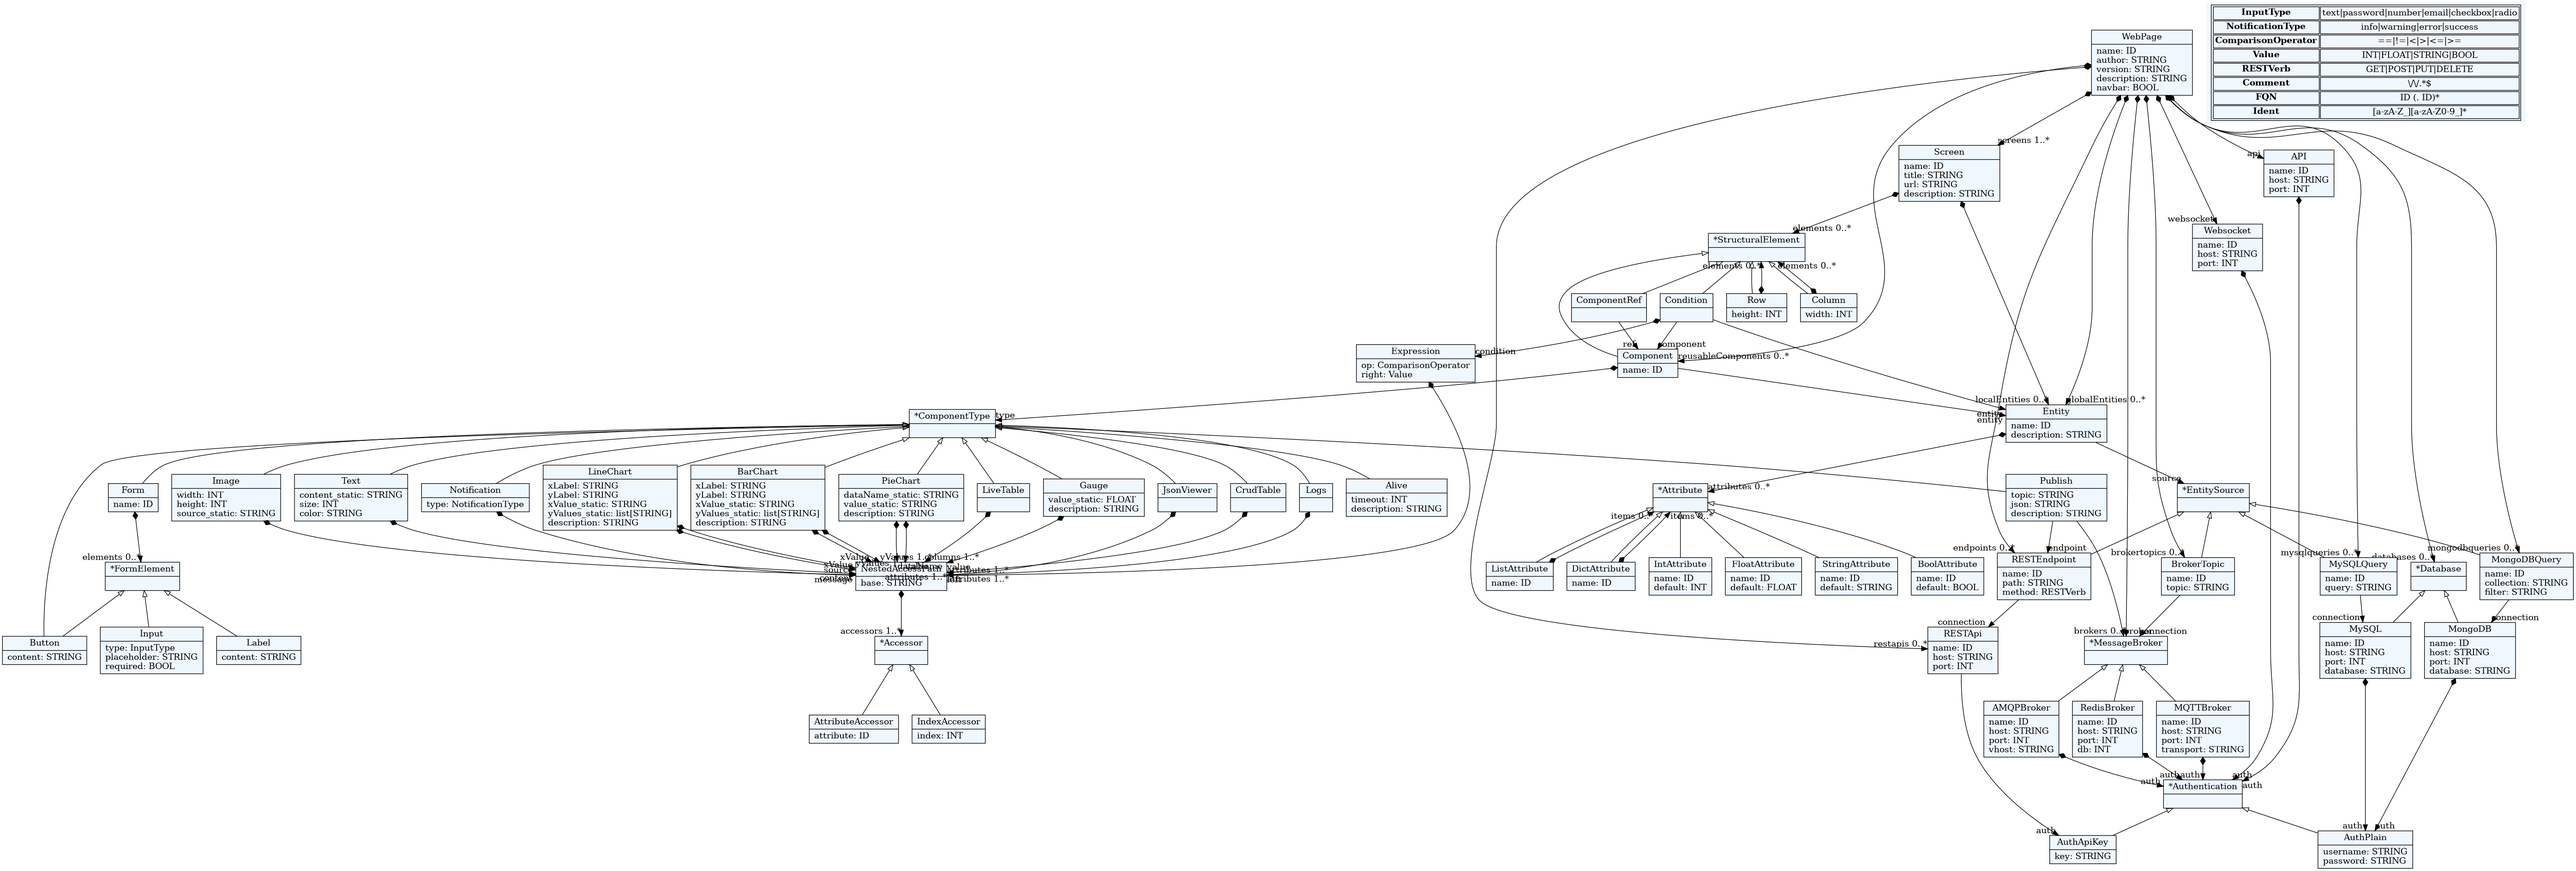
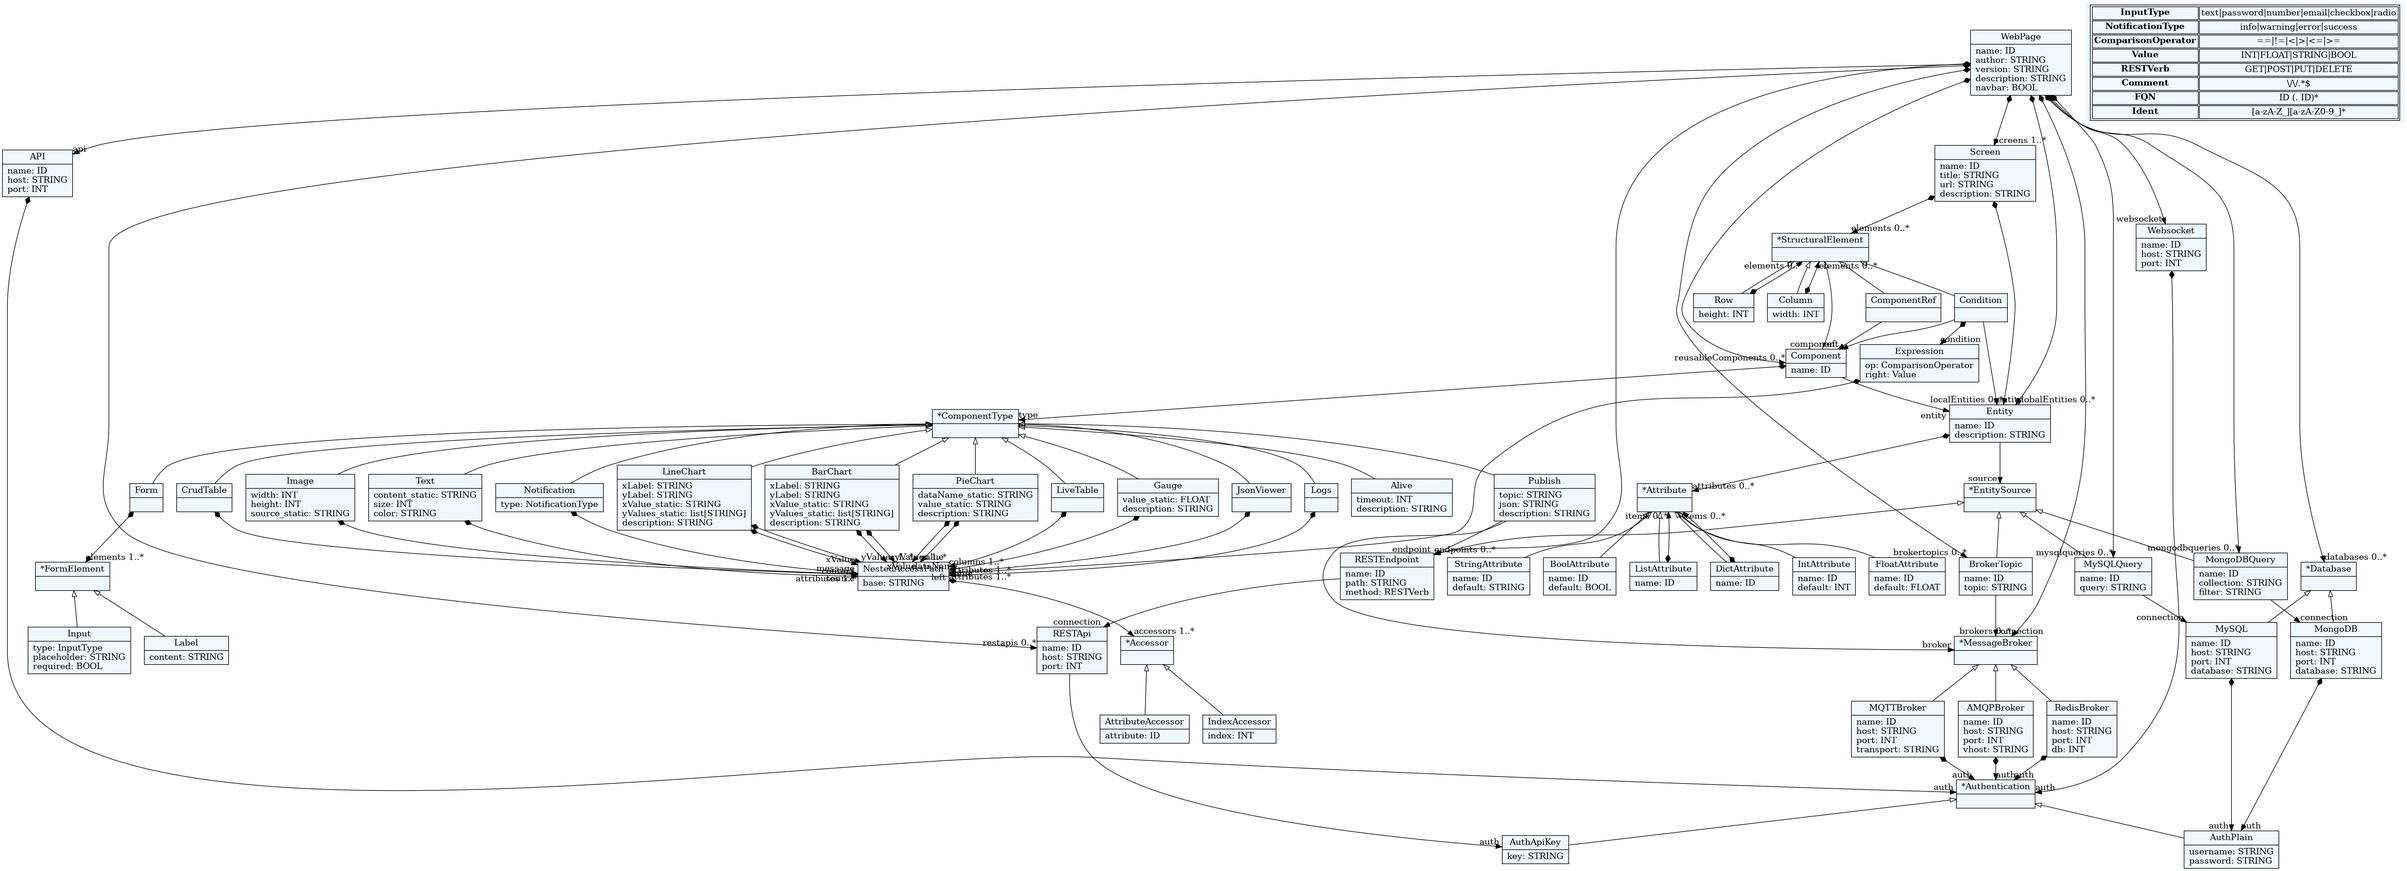
Form not working 100%

diff --git a/web_dsl/base/frontend_base/src/components/CustomForm.jsx b/web_dsl/base/frontend_base/src/components/CustomForm.jsx
@@ -1,0 +1,63 @@
+import React, { useState } from "react";
+import { toast } from "react-toastify";
+import { proxyRestCall } from "../api/proxyRestCall";
+
+const CustomForm = ({ elements, restData }) => {
+    // Track form field values by index
+    const [formData, setFormData] = useState({});
+
+    // Handle input changes
+    const handleChange = (index) => (e) => {
+        const key = `field_${index}`;
+        const value =
+            e.target.type === "checkbox" || e.target.type === "radio"
+                ? e.target.checked
+                : e.target.value;
+
+        setFormData((prev) => ({
+            ...prev,
+            [key]: value
+        }));
+    };
+
+    const handleSubmit = async (e) => {
+        e.preventDefault();
+
+        try {
+            const response = await proxyRestCall(...restData, {
+                body: formData
+            });
+
+            if (!response.ok) {
+                throw new Error(`Server error: ${response.statusText}`);
+            }
+            console.log("Success:", response);
+        } catch (error) {
+            console.error("Submission failed:", error);
+        }
+    };
+
+    return (
+        <form onSubmit={handleSubmit}>
+            {elements.map((el, idx) => {
+                if (el.kind === "label") {
+                    return <label key={idx}>{el.content}</label>;
+                }
+
+                // Otherwise treat as input
+                return (
+                    <input
+                        key={idx}
+                        type={el.type}
+                        placeholder={el.placeholder}
+                        required={el.required}
+                        onChange={handleChange(idx)}
+                    />
+                );
+            })}
+            <button type="submit">Submit</button>
+        </form>
+    );
+};
+
+export default CustomForm;

diff --git a/web_dsl/lib/component.py b/web_dsl/lib/component.py
@@ -260,3 +260,43 @@ class CrudTable(ComponentType):
             self.attributes = [
                 self.format_attribute_path(attribute) for attribute in attributes
             ]
+
+
+class Input(ComponentType):
+    def __init__(
+        self, parent=None, name="Input", type=None, placeholder=None, required=None
+    ):
+        super().__init__(parent, name)
+        self.type = type
+        self.placeholder = placeholder
+        self.required = required
+
+    def to_dict(self):
+        return {
+            "kind": "input",
+            "type": self.type,
+            "placeholder": self.placeholder,
+            "required": "true" if self.required else "false",
+        }
+
+
+class Label(ComponentType):
+    def __init__(self, parent=None, name="Label", content=None):
+        super().__init__(parent, name)
+        self.content = content
+
+    def to_dict(self):
+        return {
+            "kind": "label",
+            "content": self.content,
+        }
+
+
+class Form(ComponentType):
+    def __init__(self, parent=None, name="Form", elements=None):
+        super().__init__(parent, name)
+        if elements is not None:
+            formatted_elements = [el.to_dict() for el in elements]
+        else:
+            formatted_elements = []
+        self.elements = formatted_elements

diff --git a/web_dsl/generate.py b/web_dsl/generate.py
@@ -82,9 +82,9 @@ def generate(model_path, gen_path):
     for screen in model.screens:
         print(f"Generating screen: {screen.name}")
         # Get all components
-        # all_components = get_children_of_type("Condition", screen)
-        # for component in all_components:
-        #     print(component.__class__.__name__)
+        all_components = get_children_of_type("Form", screen)
+        for component in all_components:
+            print(component.__class__.__name__)
         try:
             html_content = screen_template.render(screen=screen)
         except TemplateError as e:

diff --git a/web_dsl/language.py b/web_dsl/language.py
@@ -23,6 +23,9 @@ from .lib.component import (
     CrudTable,
     BarChart,
     PieChart,
+    Input,
+    Label,
+    Form,
 )
 
 from .lib.condition import Condition
@@ -45,6 +48,9 @@ custom_classes = [
     Condition,
     BarChart,
     PieChart,
+    Input,
+    Label,
+    Form,
     # Add other classes here
 ]
 
